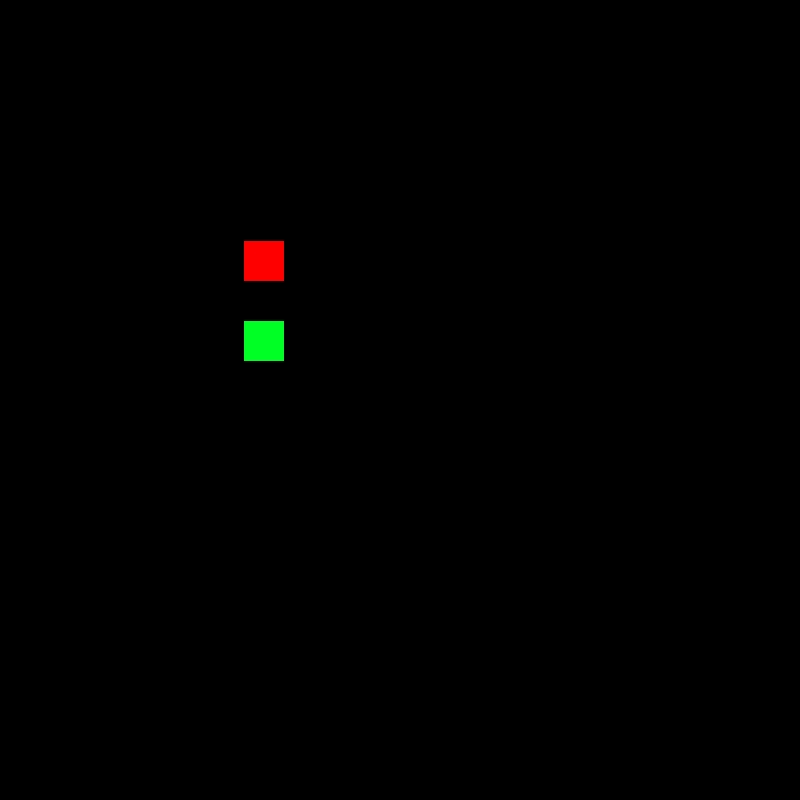
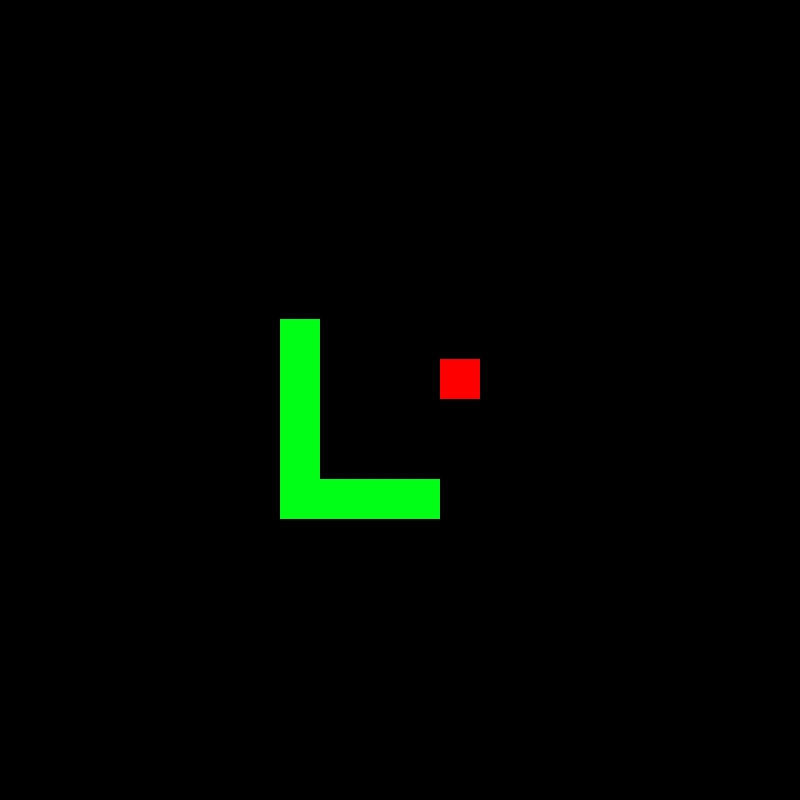
Added pause, resume and controlls jumbotron

Changed region(s): [[0.2812, 0.2812, 0.5625, 0.6562], [0.5312, 0.4375, 0.625, 0.5]]

diff --git a/snake.html b/snake.html
@@ -5,13 +5,43 @@
     <meta charset="utf-8" name="viewport" content="width=viewport-width, initial-scale=1.0">
     <title>Snake</title>
   </head>
-  <link type="text/css" rel="Stylesheet" href="Styles/Stylesheet.css">
-
+  <link type="text/css" rel="Stylesheet" href="Stylesheets/snake.css">
+  <link type="text/css" rel="stylesheet" href="https://stackpath.bootstrapcdn.com/bootstrap/4.4.1/css/bootstrap.min.css" integrity="sha384-Vkoo8x4CGsO3+Hhxv8T/Q5PaXtkKtu6ug5TOeNV6gBiFeWPGFN9MuhOf23Q9Ifjh" crossorigin="anonymous">
+  <script src="Scripts/jquery-3.5.1.min.js"></script>
   <body>
 
-
-    <div style="padding:80px">
-      <canvas id="snakeCanvas" width="400px" height="400px">
+    <div class="container">
+      <table style="width:100%" id="container-table">
+        <tr>
+          <td>
+            <div class="page-header" style="padding:20px">
+              <h1>Snake.js</h1>
+            </div>
+            <div class="container-md">
+              <canvas id="snakeCanvas" width="400px" height="400px">
+            </div>
+            <br>
+            <button class="btn btn-primary" id="back-button">Back</button>
+          </td>
+          <td>
+            <div class="jumbotron" id="controls-jumbo">
+              <h1>Controls</h1>
+              <hr style="top-border:grey">
+              <p>
+                Controls:
+                <ul>
+                  <li>Up</li>
+                  <li>Down</li>
+                  <li>Left</li>
+                  <li>Right</li>
+                  <li>Pause - Esc</li>
+                  <li>Resume - 1</li>
+                </ul>
+              </p>
+            </div>
+          </td>
+        </tr>
+      </table>
     </div>
 
   </body>
@@ -36,6 +66,7 @@
   var aPosX = Math.floor(Math.random() * 400 / cellSize) * cellSize;
   var aPosY = Math.floor(Math.random() * 400 / cellSize) * cellSize;
 
+//handle keypress event
   function keyPush(e){
     keyCode = e.keyCode
     switch (keyCode) {
@@ -78,6 +109,9 @@
       case 27:
           clearInterval(intervalID);
         break;
+      case 49:
+          intervalID = setInterval(game, 1000/10);
+        break;
       default:
         break;
 
@@ -86,11 +120,14 @@
   }
 
   function game(){
-    if(trail[0].xPos == aPosX && trail[0].yPos == aPosY){
-      trail[trail.length] = {xPos: aPosX, yPos: aPosY};
-      aPosX = Math.floor(Math.random() * 400 / cellSize) * cellSize;
-      aPosY = Math.floor(Math.random() * 400 / cellSize) * cellSize;
-     }
+
+
+//move tail peices
+    for(i = trail.length - 1; i > 0; i --){
+      console.log(i);
+      trail[i].xPos = trail[i - 1].xPos;
+      trail[i].yPos = trail[i - 1].yPos;
+    }
 
 //move head
     trail[0].xPos += xVelocity;
@@ -110,16 +147,12 @@
       trail[0].yPos = 0;
     }
 
-//move tail peices
-    for(i = trail.length - 1; i > 0; i --){
-      console.log(i);
-      trail[i].xPos = trail[i - 1].xPos;
-      trail[i].yPos = trail[i - 1].yPos;
-    }
 
+//draw background
     ctx.fillStyle="black";
     ctx.fillRect(0, 0, document.getElementById("snakeCanvas").width,  document.getElementById("snakeCanvas").height);
     ctx.fillStyle="lime";
+//draw each snake segment and check for collision with head
     for(let elem of trail){
       ctx.fillRect(elem.xPos, elem.yPos, cellSize, cellSize);
       if(trail[0].xPos == elem.xPos && trail[0].yPos == elem.yPos && elem !== trail[0]){
@@ -127,9 +160,29 @@
         console.log("reloaded");
       }
     }
+
+
+//check for collision with apple
+    if(trail[0].xPos == aPosX && trail[0].yPos == aPosY){
+      trail[trail.length] = {xPos: aPosX, yPos: aPosY};
+      aPosX = Math.floor(Math.random() * 400 / cellSize) * cellSize;
+      aPosY = Math.floor(Math.random() * 400 / cellSize) * cellSize;
+     }
+
+     //draw apple
     ctx.fillStyle="red";
     ctx.fillRect(aPosX, aPosY, cellSize, cellSize);
   }
+
+
+//function to navigate to index again
+  function goTo(location){
+    window.location.href=location;
+  }
+
+  $("#back-button").on("click", function(){
+    goTo("index.html");
+  });
   </script>
 
 </html>

diff --git a/index.html b/index.html
@@ -4,7 +4,7 @@
     <title>Portfolio</title>
   </head>
   <link rel="stylesheet" href="https://stackpath.bootstrapcdn.com/bootstrap/4.4.1/css/bootstrap.min.css" integrity="sha384-Vkoo8x4CGsO3+Hhxv8T/Q5PaXtkKtu6ug5TOeNV6gBiFeWPGFN9MuhOf23Q9Ifjh" crossorigin="anonymous">
-  <link rel="stylesheet" href="Stylesheets/myFirstCSS.css" type="text/css">
+  <link rel="stylesheet" href="Stylesheets/index.css" type="text/css">
   <script src="Scripts/jquery-3.5.1.min.js"></script>
   <body>
     <br>
@@ -50,7 +50,7 @@
 
     $("#snakeImage").on("click", function(){
       goTo("snake.html");
-    })
+    });
 
   </script>
 </html>

diff --git a/Stylesheets/snake.css b/Stylesheets/snake.css
@@ -1,0 +1,14 @@
+body{
+  height:200px;
+}
+
+#controls-jumbo{
+  position:absolute;
+  left:40%;
+  top:20%;
+  width:500px;
+}
+
+#container-table{
+  position: relative;
+}
